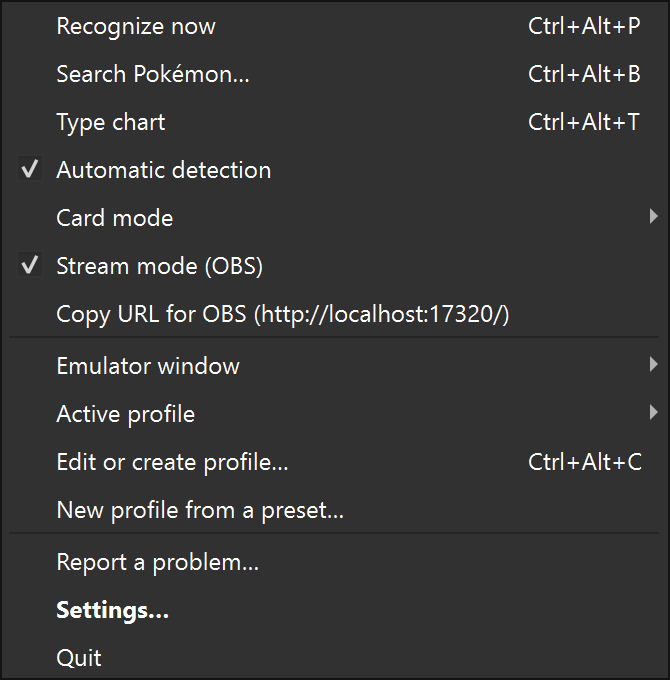
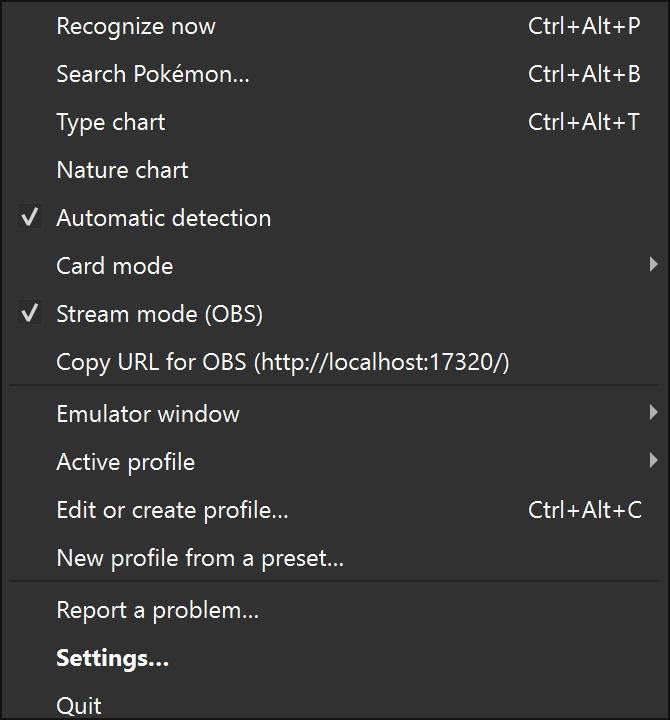
feat: atajo Ctrl+Alt+N para la tabla de naturalezas

diff --git a/site/guide.html b/site/guide.html
@@ -148,13 +148,13 @@
           <h2>El menú de la bandeja</h2>
           <p>BattleLens no tiene ventana principal: vive en la bandeja del sistema, junto al reloj (si no lo ves, mira en la flecha <b>^</b>). Haz clic en el icono para abrir el menú; con <b>doble clic</b> se abren los Ajustes.</p>
           <figure class="shot">
-            <img src="assets/guide/es/tray.png" width="351" height="340" loading="lazy" alt="Menú de BattleLens en la bandeja del sistema">
+            <img src="assets/guide/es/tray.png" width="351" height="360" loading="lazy" alt="Menú de BattleLens en la bandeja del sistema">
           </figure>
           <dl class="defs">
             <dt>Reconocer ahora</dt><dd>Lee el nombre del rival en ese momento. Útil si tienes la detección automática apagada.</dd>
             <dt>Buscar Pokémon…</dt><dd>Abre la ficha de cualquier Pokémon, sin estar en combate. Ver <a href="#buscar">Buscar un Pokémon</a>.</dd>
             <dt>Tabla de tipos</dt><dd>Muestra u oculta la chuleta de tipos del juego. Ver <a href="#tabla-tipos">Tabla de tipos</a>.</dd>
-            <dt>Tabla de naturalezas</dt><dd>Muestra u oculta las 25 naturalezas: cada fila es la estadística que sube y cada columna la que baja; las de la diagonal son neutras. Se mueve, se reescala y se cierra como la tabla de tipos.</dd>
+            <dt>Tabla de naturalezas</dt><dd>(<kbd>Ctrl</kbd>+<kbd>Alt</kbd>+<kbd>N</kbd>) Muestra u oculta las 25 naturalezas: cada fila es la estadística que sube y cada columna la que baja; las de la diagonal son neutras. Se mueve, se reescala y se cierra como la tabla de tipos.</dd>
             <dt>Mostrar el panel</dt><dd>Solo en modo panel: vuelve a abrir la ventana del panel si la cerraste. Ver <a href="#panel">Modo panel</a>.</dd>
             <dt>Detección automática</dt><dd>Vigila el combate y muestra la ficha sola. Activada por defecto.</dd>
             <dt>Modo de la ficha</dt><dd>Normal (aventura y captura) o Competitivo (combate). Ver <a href="#modos">Normal y Competitivo</a>.</dd>
@@ -394,7 +394,7 @@
 
           <h3>Atajos</h3>
           <figure class="shot">
-            <img src="assets/guide/es/settings-hotkeys.png" width="880" height="647" loading="lazy" alt="Ajustes, sección Atajos">
+            <img src="assets/guide/es/settings-hotkeys.png" width="880" height="700" loading="lazy" alt="Ajustes, sección Atajos">
           </figure>
           <table class="keys">
             <thead><tr><th>Atajo</th><th>Qué hace</th></tr></thead>
@@ -407,6 +407,7 @@
               <tr><td><kbd>Ctrl</kbd>+<kbd>Alt</kbd>+<kbd>S</kbd></td><td>Mostrar u ocultar la ficha del stream</td></tr>
               <tr><td><kbd>Ctrl</kbd>+<kbd>Alt</kbd>+<kbd>B</kbd></td><td>Buscar un Pokémon</td></tr>
               <tr><td><kbd>Ctrl</kbd>+<kbd>Alt</kbd>+<kbd>T</kbd></td><td>Mostrar u ocultar la tabla de tipos</td></tr>
+              <tr><td><kbd>Ctrl</kbd>+<kbd>Alt</kbd>+<kbd>N</kbd></td><td>Mostrar u ocultar la tabla de naturalezas</td></tr>
             </tbody>
           </table>
           <p class="note">Todos necesitan un modificador (Ctrl, Alt, Shift o Win): las teclas F solas las usan los emuladores para los estados guardados.</p>
@@ -587,13 +588,13 @@
           <h2>The tray menu</h2>
           <p>BattleLens has no main window: it lives in the system tray, next to the clock (if you can't see it, look under the <b>^</b> arrow). Click the icon to open the menu; <b>double-click</b> it to open Settings.</p>
           <figure class="shot">
-            <img src="assets/guide/en/tray.png" width="335" height="340" loading="lazy" alt="BattleLens menu in the system tray">
+            <img src="assets/guide/en/tray.png" width="335" height="360" loading="lazy" alt="BattleLens menu in the system tray">
           </figure>
           <dl class="defs">
             <dt>Recognize now</dt><dd>Reads the opponent's name right now. Handy if automatic detection is off.</dd>
             <dt>Search Pokémon…</dt><dd>Opens the card of any Pokémon, outside battle too. See <a href="#search">Search for a Pokémon</a>.</dd>
             <dt>Type chart</dt><dd>Shows or hides the game's type cheat sheet. See <a href="#type-chart">Type chart</a>.</dd>
-            <dt>Nature chart</dt><dd>Shows or hides the 25 natures: each row is the stat it raises and each column the one it lowers; the ones on the diagonal are neutral. It moves, resizes and closes like the type chart.</dd>
+            <dt>Nature chart</dt><dd>(<kbd>Ctrl</kbd>+<kbd>Alt</kbd>+<kbd>N</kbd>) Shows or hides the 25 natures: each row is the stat it raises and each column the one it lowers; the ones on the diagonal are neutral. It moves, resizes and closes like the type chart.</dd>
             <dt>Show the panel</dt><dd>Panel mode only: reopens the panel window if you closed it. See <a href="#panel-mode">Panel mode</a>.</dd>
             <dt>Automatic detection</dt><dd>Watches the battle and shows the card by itself. On by default.</dd>
             <dt>Card mode</dt><dd>Normal (adventure and catching) or Competitive (battle). See <a href="#modes">Normal and Competitive</a>.</dd>
@@ -833,7 +834,7 @@
 
           <h3>Shortcuts</h3>
           <figure class="shot">
-            <img src="assets/guide/en/settings-hotkeys.png" width="880" height="647" loading="lazy" alt="Settings, Shortcuts section">
+            <img src="assets/guide/en/settings-hotkeys.png" width="880" height="700" loading="lazy" alt="Settings, Shortcuts section">
           </figure>
           <table class="keys">
             <thead><tr><th>Shortcut</th><th>What it does</th></tr></thead>
@@ -846,6 +847,7 @@
               <tr><td><kbd>Ctrl</kbd>+<kbd>Alt</kbd>+<kbd>S</kbd></td><td>Show or hide the stream card</td></tr>
               <tr><td><kbd>Ctrl</kbd>+<kbd>Alt</kbd>+<kbd>B</kbd></td><td>Search for a Pokémon</td></tr>
               <tr><td><kbd>Ctrl</kbd>+<kbd>Alt</kbd>+<kbd>T</kbd></td><td>Show or hide the type chart</td></tr>
+              <tr><td><kbd>Ctrl</kbd>+<kbd>Alt</kbd>+<kbd>N</kbd></td><td>Show or hide the nature chart</td></tr>
             </tbody>
           </table>
           <p class="note">They all need a modifier (Ctrl, Alt, Shift or Win): emulators use the plain F keys for save states.</p>

diff --git a/src/battlelens/app.py b/src/battlelens/app.py
@@ -196,8 +196,7 @@ class Controller(QObject):
         self.tray.search_requested.connect(self.search_pokemon)
         self.tray.calibrate_requested.connect(self.calibrate)
         self.tray.type_chart_requested.connect(self.toggle_type_chart)
-        self.tray.nature_chart_requested.connect(
-            lambda: self.nature_chart.hide() if self.nature_chart.isVisible() else self.nature_chart.present(self._target_rect()))
+        self.tray.nature_chart_requested.connect(self.toggle_nature_chart)
         self.tray.panel_requested.connect(self.panel.show)
         self.tray.auto_detect_toggled.connect(self.set_auto_detect)
         self.tray.mode_selected.connect(self.set_mode)
@@ -249,6 +248,7 @@ class Controller(QObject):
             ("toggle_stream", config.hotkey_toggle_stream),
             ("search", config.hotkey_search),
             ("type_chart", config.hotkey_type_chart),
+            ("natures", config.hotkey_natures),
         ):
             try:
                 bindings[name] = parse_hotkey(text)
@@ -263,7 +263,7 @@ class Controller(QObject):
             labels = {"recognize": _("reconocer"), "calibrate": _("calibrar"), "hide": _("ocultar"),
                       "toggle_mode": _("cambiar de modo"), "cycle_form": _("cambiar de forma"),
                       "toggle_stream": _("ficha del stream"), "search": _("buscar Pokémon"),
-                      "type_chart": _("tabla de tipos")}
+                      "type_chart": _("tabla de tipos"), "natures": _("tabla de naturalezas")}
             invalid = _("inválido")
             detail = ", ".join(
                 f"{labels.get(n, n)} ({bindings[n].text if n in bindings else invalid})" for n in failed
@@ -415,9 +415,10 @@ class Controller(QObject):
         save_config(self.data_dir / "config.toml", new)
         self.config = new
         if (new.hotkey_recognize, new.hotkey_calibrate, new.hotkey_hide, new.hotkey_toggle_mode,
-                new.hotkey_cycle_form, new.hotkey_toggle_stream, new.hotkey_search, new.hotkey_type_chart) != (
+                new.hotkey_cycle_form, new.hotkey_toggle_stream, new.hotkey_search, new.hotkey_type_chart,
+                new.hotkey_natures) != (
             old.hotkey_recognize, old.hotkey_calibrate, old.hotkey_hide, old.hotkey_toggle_mode, old.hotkey_cycle_form,
-            old.hotkey_toggle_stream, old.hotkey_search, old.hotkey_type_chart
+            old.hotkey_toggle_stream, old.hotkey_search, old.hotkey_type_chart, old.hotkey_natures
         ):
             self.hotkeys.stop()
             bindings, invalid = self._parse_hotkeys(new)
@@ -651,6 +652,7 @@ class Controller(QObject):
             "toggle_stream": self.toggle_stream_card,
             "search": self.search_pokemon,
             "type_chart": self.toggle_type_chart,
+            "natures": self.toggle_nature_chart,
         }[name]()
 
     # ---- modos de ficha (spec display-modes) ---------------------------------------
@@ -884,6 +886,13 @@ class Controller(QObject):
         if not self.overlay.isVisible():
             self.type_chart.set_highlight(())
         self.type_chart.present(self._target_rect())
+
+    def toggle_nature_chart(self) -> None:
+        """Muestra u oculta la tabla de naturalezas (flotante o dentro del panel)."""
+        if self.nature_chart.isVisible():
+            self.nature_chart.hide()
+        else:
+            self.nature_chart.present(self._target_rect())
 
     def _load_type_chart(self) -> None:
         """Tabla de la generación del perfil activo."""

diff --git a/src/battlelens/core/config.py b/src/battlelens/core/config.py
@@ -40,6 +40,8 @@ toggle_stream = {hotkey_toggle_stream}
 search = {hotkey_search}
 # Muestra u oculta la tabla de tipos del juego.
 type_chart = {hotkey_type_chart}
+# Muestra u oculta la tabla de naturalezas.
+natures = {hotkey_natures}
 
 [recognition]
 # Puntuación mínima (0-100) para dar por reconocido un nombre.
@@ -135,6 +137,7 @@ class Config:
     hotkey_toggle_stream: str = "Ctrl+Alt+S"
     hotkey_search: str = "Ctrl+Alt+B"
     hotkey_type_chart: str = "Ctrl+Alt+T"
+    hotkey_natures: str = "Ctrl+Alt+N"
     stream_enabled: bool = False
     stream_port: int = 17320
     stream_card_mode: str = "normal"
@@ -185,6 +188,7 @@ class Config:
             hotkey_toggle_stream=hk.get("toggle_stream", default.hotkey_toggle_stream),
             hotkey_search=hk.get("search", default.hotkey_search),
             hotkey_type_chart=hk.get("type_chart", default.hotkey_type_chart),
+            hotkey_natures=hk.get("natures", default.hotkey_natures),
             stream_enabled=st.get("enabled", default.stream_enabled),
             stream_port=st.get("port", default.stream_port),
             stream_card_mode=st.get("card_mode", default.stream_card_mode),
@@ -217,6 +221,8 @@ class Config:
             raise ConfigError(_("{name} debe ser un texto", name="hotkeys.search"))
         if not isinstance(self.hotkey_type_chart, str):
             raise ConfigError(_("{name} debe ser un texto", name="hotkeys.type_chart"))
+        if not isinstance(self.hotkey_natures, str):
+            raise ConfigError(_("{name} debe ser un texto", name="hotkeys.natures"))
         if not isinstance(self.stream_enabled, bool):
             raise ConfigError(_("{key} debe ser true o false", key="stream.enabled"))
         if not isinstance(self.stream_port, int) or isinstance(self.stream_port, bool) or not 1024 <= self.stream_port <= 65535:

diff --git a/src/battlelens/ui/tray.py b/src/battlelens/ui/tray.py
@@ -71,6 +71,7 @@ class Tray(QObject):
         self._recognize_action.setText(_("Reconocer ahora") + self._hint("recognize"))
         self._search_action.setText(_("Buscar Pokémon…") + self._hint("search"))
         self._type_chart_action.setText(_("Tabla de tipos") + self._hint("type_chart"))
+        self._natures_action.setText(_("Tabla de naturalezas") + self._hint("natures"))
         self._calibrate_action.setText(_("Modificar o crear perfil…") + self._hint("calibrate"))
 
     def show_update(self, version: str) -> None:
@@ -121,7 +122,8 @@ class Tray(QObject):
         search.triggered.connect(self.search_requested)
         type_chart = self._type_chart_action = m.addAction(_("Tabla de tipos") + self._hint("type_chart"))
         type_chart.triggered.connect(self.type_chart_requested)
-        m.addAction(_("Tabla de naturalezas")).triggered.connect(self.nature_chart_requested)
+        natures = self._natures_action = m.addAction(_("Tabla de naturalezas") + self._hint("natures"))
+        natures.triggered.connect(self.nature_chart_requested)
         self.panel_action = m.addAction(_("Mostrar el panel"))
         self.panel_action.triggered.connect(self.panel_requested)
         self.panel_action.setVisible(False)

diff --git a/src/battlelens/ui/settings.py b/src/battlelens/ui/settings.py
@@ -47,6 +47,7 @@ HOTKEY_FIELDS = (
     ("hotkey_toggle_stream", N_("Ficha del stream")),
     ("hotkey_search", N_("Buscar Pokémon")),
     ("hotkey_type_chart", N_("Tabla de tipos")),
+    ("hotkey_natures", N_("Tabla de naturalezas")),
 )
 MODE_LABELS = {"normal": N_("Normal (aventura y captura)"), "competitive": N_("Competitivo (combate)")}
 DISPLAY_LABELS = {"overlay": N_("Overlay (sobre el juego)"), "panel": N_("Panel (ventana aparte)")}
@@ -769,6 +770,7 @@ class SettingsWindow(QWidget):
             hotkey_toggle_stream=self.hotkey_edits["hotkey_toggle_stream"].text().strip(),
             hotkey_search=self.hotkey_edits["hotkey_search"].text().strip(),
             hotkey_type_chart=self.hotkey_edits["hotkey_type_chart"].text().strip(),
+            hotkey_natures=self.hotkey_edits["hotkey_natures"].text().strip(),
             stream_enabled=self.stream_enabled.isChecked(),
             stream_port=int(self.stream_port.value()),
             stream_card_mode=self.stream_mode.currentData(),

diff --git a/tools/make_guide_screenshots.py b/tools/make_guide_screenshots.py
@@ -163,6 +163,7 @@ def main() -> int:
     from battlelens.ui.search import SearchDialog
     from battlelens.ui.start import StartDialog
     from battlelens.ui.tray import Tray
+    from battlelens.ui.nature_chart import NatureChartWindow
     from battlelens.ui.type_chart import TypeChartWindow
 
     dex = Pokedex.load()
@@ -297,7 +298,7 @@ def main() -> int:
         overlay.hidden = {"competitive": defaults.hidden_sections("competitive") - {"matchup"}}
         type_chart = TypeChartWindow()
         type_chart.set_chart(chart, {t: dex.type_name(t, lang) for t in chart}, generation)
-        panel = PanelWindow(overlay, type_chart)
+        panel = PanelWindow(overlay, type_chart, NatureChartWindow())
         panel.resize(940, 470)  # cabe en la pantalla lógica con QT_SCALE_FACTOR=2
         panel.dock()
         own_view = dex.view(813, GAME, lang)

diff --git a/tests/test_app.py b/tests/test_app.py
@@ -34,6 +34,7 @@ def controller(qapp, tmp_path, monkeypatch):
         hotkey_toggle_stream="Ctrl+Alt+Shift+F16",
         hotkey_search="Ctrl+Alt+Shift+F15",
         hotkey_type_chart="Ctrl+Alt+Shift+F14",
+        hotkey_natures="Ctrl+Alt+Shift+F13",
         detection_enabled=False,
         hidden_sections_normal=(),  # ficha completa: los tests miran todas las secciones
         hidden_sections_competitive=(),
@@ -228,6 +229,7 @@ def auto_controller(qapp, tmp_path, monkeypatch):
         hotkey_toggle_stream="Ctrl+Alt+Shift+F16",
         hotkey_search="Ctrl+Alt+Shift+F15",
         hotkey_type_chart="Ctrl+Alt+Shift+F14",
+        hotkey_natures="Ctrl+Alt+Shift+F13",
         detection_enabled=True,
         detection_interval_ms=200,
         detection_hide_after_seconds=1.0,

diff --git a/src/battlelens/ui/panel.py b/src/battlelens/ui/panel.py
@@ -109,8 +109,9 @@ class PanelWindow(QWidget):
             return
         slot = self._chart_slot.size()
         width = max(c._base.width() for c in shown)
-        height = sum(c._base.height() for c in shown) + GAP * (len(shown) - 1)
-        scale = min(max(min(slot.width() / width, slot.height() / height), MIN_SCALE), MAX_SCALE)
+        height = sum(c._base.height() for c in shown)
+        room = slot.height() - GAP * (len(shown) - 1) - len(shown)  # el hueco entre tablas no escala; −1 px por redondeo
+        scale = min(max(min(slot.width() / width, room / height), MIN_SCALE), MAX_SCALE)
         y = 0
         for chart in shown:
             chart.set_scale(scale)

diff --git a/tests/test_english_ui.py b/tests/test_english_ui.py
@@ -130,6 +130,7 @@ def test_cambio_de_idioma_en_caliente(qapp, tmp_path, monkeypatch, dex):
                     hotkey_cycle_form="Ctrl+Alt+Shift+F17", hotkey_toggle_stream="Ctrl+Alt+Shift+F16",
                     hotkey_search="Ctrl+Alt+Shift+F15",
                     hotkey_type_chart="Ctrl+Alt+Shift+F14",
+                    hotkey_natures="Ctrl+Alt+Shift+F13",
                     updates_check=False, detection_enabled=False, interface_language="es")
     controller = Controller(qapp, config, dex)
     messages = []

diff --git a/tests/test_presets.py b/tests/test_presets.py
@@ -169,6 +169,7 @@ def test_controlador_crea_el_perfil_con_el_preset(qapp, tmp_path, monkeypatch):
                     hotkey_cycle_form="Ctrl+Alt+Shift+F17", hotkey_toggle_stream="Ctrl+Alt+Shift+F16",
                     hotkey_search="Ctrl+Alt+Shift+F15",
                     hotkey_type_chart="Ctrl+Alt+Shift+F14",
+                    hotkey_natures="Ctrl+Alt+Shift+F13",
                     updates_check=False, detection_enabled=False)
     controller = Controller(qapp, config, Pokedex.load())
     try:

diff --git a/tests/test_report.py b/tests/test_report.py
@@ -93,6 +93,7 @@ def test_controlador_crea_el_informe(qapp, tmp_path, monkeypatch):
                     hotkey_cycle_form="Ctrl+Alt+Shift+F17", hotkey_toggle_stream="Ctrl+Alt+Shift+F16",
                     hotkey_search="Ctrl+Alt+Shift+F15",
                     hotkey_type_chart="Ctrl+Alt+Shift+F14",
+                    hotkey_natures="Ctrl+Alt+Shift+F13",
                     updates_check=False, detection_enabled=False)
     controller = Controller(qapp, config, Pokedex.load())
     try:

diff --git a/tests/test_card_sections.py b/tests/test_card_sections.py
@@ -141,6 +141,7 @@ def test_guardar_secciones_redibuja_la_ficha(qapp, tmp_path, monkeypatch, dex):
                     hotkey_cycle_form="Ctrl+Alt+Shift+F17", hotkey_toggle_stream="Ctrl+Alt+Shift+F16",
                     hotkey_search="Ctrl+Alt+Shift+F15",
                     hotkey_type_chart="Ctrl+Alt+Shift+F14",
+                    hotkey_natures="Ctrl+Alt+Shift+F13",
                     updates_check=False, detection_enabled=False)
     c = Controller(qapp, config, dex)
     try:
